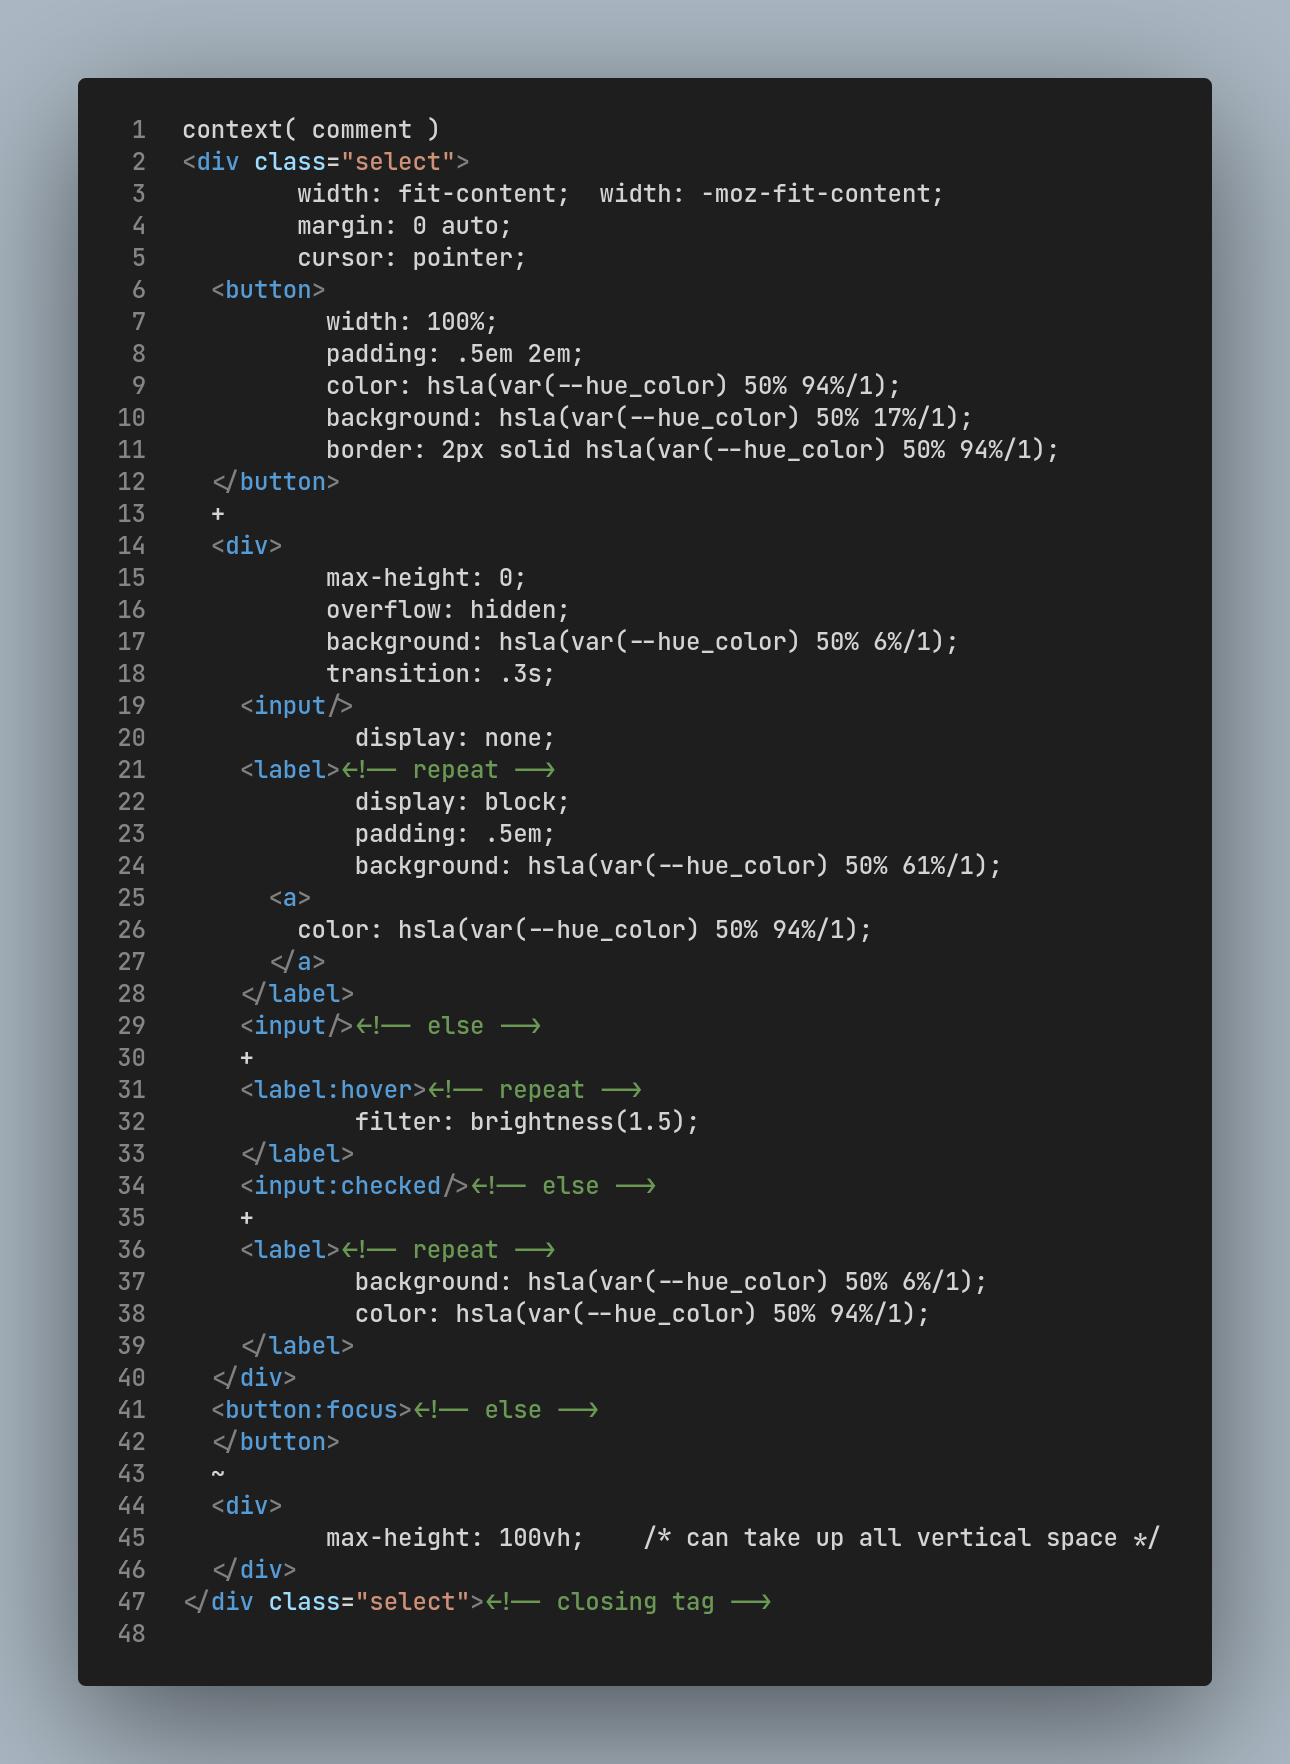
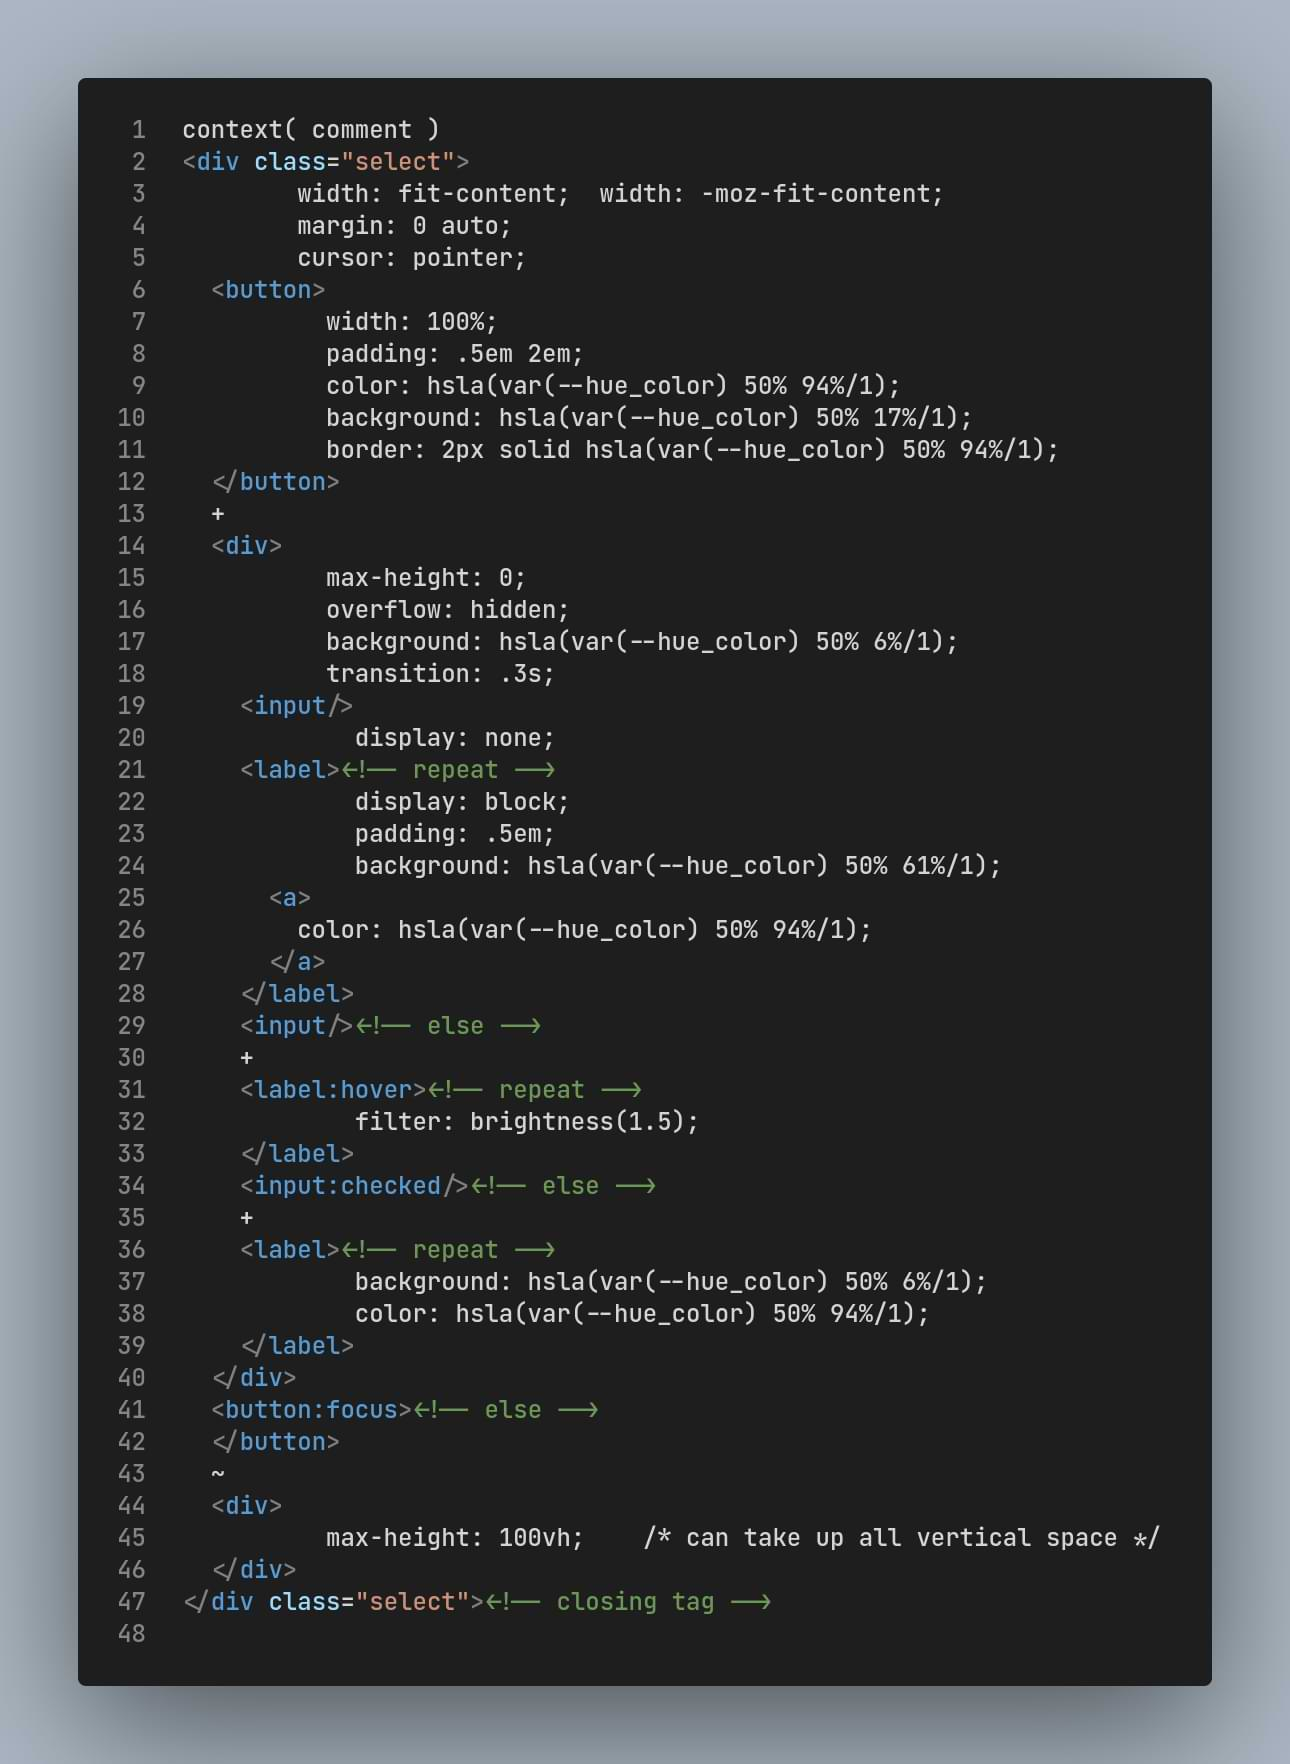
initial

diff --git a/examples/tutorial/select.context.html b/examples/tutorial/select.context.html
@@ -16,24 +16,25 @@ context( comment )
           overflow: hidden;
           background: hsla(var(--hue_color) 50% 6%/1);
           transition: .3s;
-    <input/>
+    <input:not(checked)/>
             display: none;
-    <label><!-- repeat -->
+    <label>
             display: block;
             padding: .5em;
             background: hsla(var(--hue_color) 50% 61%/1);
       <a>
         color: hsla(var(--hue_color) 50% 94%/1);
+        text-decoration: none;
       </a>
     </label>
     <input/><!-- else -->
     +
-    <label:hover><!-- repeat -->
+    <label:hover>
             filter: brightness(1.5);
     </label>
     <input:checked/><!-- else -->
     +
-    <label><!-- repeat -->
+    <label>
             background: hsla(var(--hue_color) 50% 6%/1);
             color: hsla(var(--hue_color) 50% 94%/1);
     </label>

diff --git a/examples/tutorial/select.css b/examples/tutorial/select.css
@@ -19,7 +19,7 @@ background: hsla(var(--hue_color) 50% 6%/1);
 transition: .3s;
 }
 
-.select > button + div > input {
+.select > button + div > input:not(checked) {
 display: none;
 }
 
@@ -31,6 +31,7 @@ background: hsla(var(--hue_color) 50% 61%/1);
 
 .select > button + div > label > a {
 color: hsla(var(--hue_color) 50% 94%/1);
+text-decoration: none;
 }
 
 .select > button + div > input + label:hover {

diff --git a/examples/tutorial/index.html b/examples/tutorial/index.html
@@ -20,7 +20,9 @@
         <div>
           <input type="radio" id="one" name="select" />
           <label for="one">
-            HTML is awesome
+            <a href="#">
+              HTML is awesome
+            </a>
           </label>
           <input type="radio" id="two" name="select" />
           <label for="two">

diff --git a/examples/tutorial/tutorial.md b/examples/tutorial/tutorial.md
@@ -2,3 +2,74 @@
 
 ![Tutorial html.context.html file](../../screenshots/html-context.jpg)
 
+This is the code of the main Contextual-CSS file used to generate the modular stylesheets used by the tutorial demo page.
+It is a mix of two different markup languages: HTML, CSS, plus a few function-like directives used by the Contextual-CSS script.
+
+## Stack directives
+
+The first line show a commented out `context` directive, as an HTML comment: it will be first removed by the script, before any processing of the file content, hence the directive will not be taken into account. Otherwise, all CSS comments, like the one on line 16 (`/* TODO: 50 as a var */`) would be left on the generated `.css` file.
+
+
+There are four other `context` directives:
+```
+context( stack, ignore )
+```
+The __stack-ignore__ directive is set to generate standalone selectors (selectors without the default Contextual-CSS parent-child relationship):
+Instead of generating a `html > body` selector, for instance, ignoring the processing stack will generate a simple `body` selector.<br/>
+To cancel the effect of the __stack-ignore__ directive, a subsequent
+```
+context( stack, keep )
+```
+directive is necessary.
+
+
+The __stack-new__ directive on line 11
+```
+context( stack, new )
+```
+resets the processing stack, therefore subsequent generated selectors won't have a `html > body >` prefix has it should be the case.<br/>
+This directive is a way to control the nesting level of CSS selectors.
+
+
+## Class definition
+
+Line 12 show a convenient way to generate a class selector:
+```html
+<p class="paragraph">
+```
+generates a simple `.paragraph` selector instead of a `p` selector as it is coupled with the reinitialization of the processing stack.<br/>
+It is important to note that a
+```html
+</p class="paragraph">
+```
+is used to close the `paragraph` class tag: it is **mandatory** for the stack processing. The `<!-- closing tag -->` comment is there to remind it.
+
+## Modular stylesheets
+
+Organizing stylesheets in a modular way is always a good practice: this is the purpose of the `url` context functions on lines 22 and 37
+```
+context( url, select.context.html )
+```
+The URL argument (`select.context.html`) have no quotes and its path is __relative__ to the calling file path.<br/>
+The stylesheet module generated imports the processing stack of its caller, but it can be **reset** or **ignored** as explained before, to yield a no-dependency CSS file (a component, for instance).
+
+## Output
+
+![Tutorial html.css file](../../screenshots/html-css.jpg)
+
+Have also a look at the `footer.context.html` output (`footer.css`) to see the result of line 1 directive:
+```
+context( minify, true )
+```
+
+
+## Tutorial page
+
+![Tutorial index.html file](../../screenshots/tutorial.jpg)
+
+The `html.context.html` file has generated three stylesheets for the purpose of this tutorial page, but, in a real application, they would be merged in a single CSS file for performance concerns.<br/>
+As you will discover loading that page in a browser, the Contextual-CSS generated code is not a simple decoration of the elements of the page but, without a single line of JavaScript, it shows or hides elements: have a look at the `select.context.html` file and its generated CSS file: HTML and CSS are awesome!
+
+And JavaScript too, because `contextual_css.js` is a Node JS script.
+
+**NB**: I hope that my _vertical coding style_ won't prevent you to review it: your comments are most welcome.
